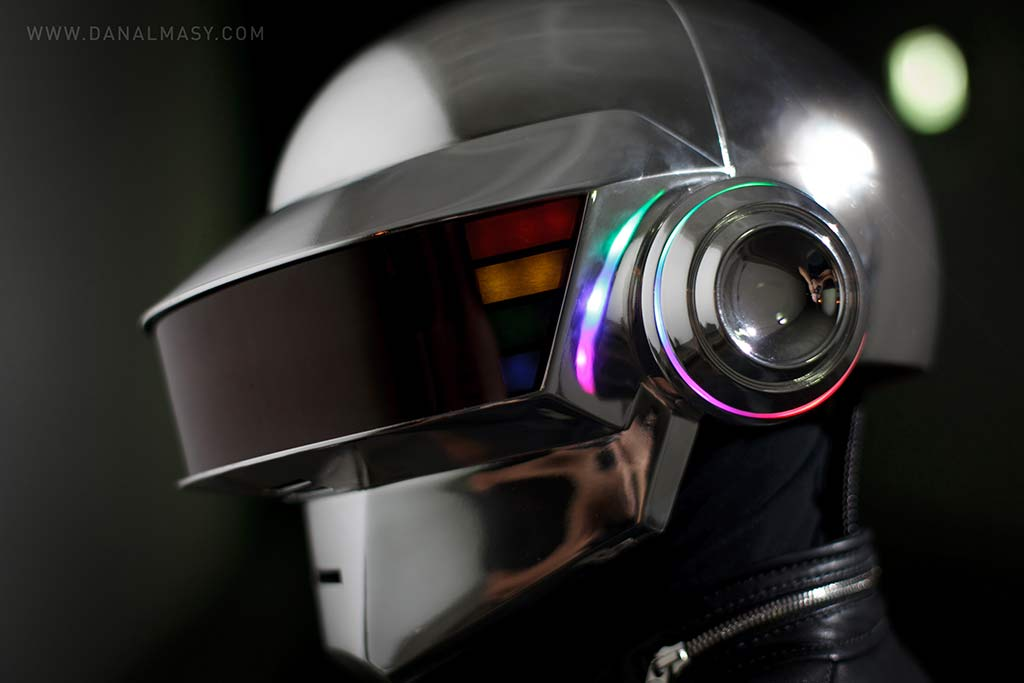
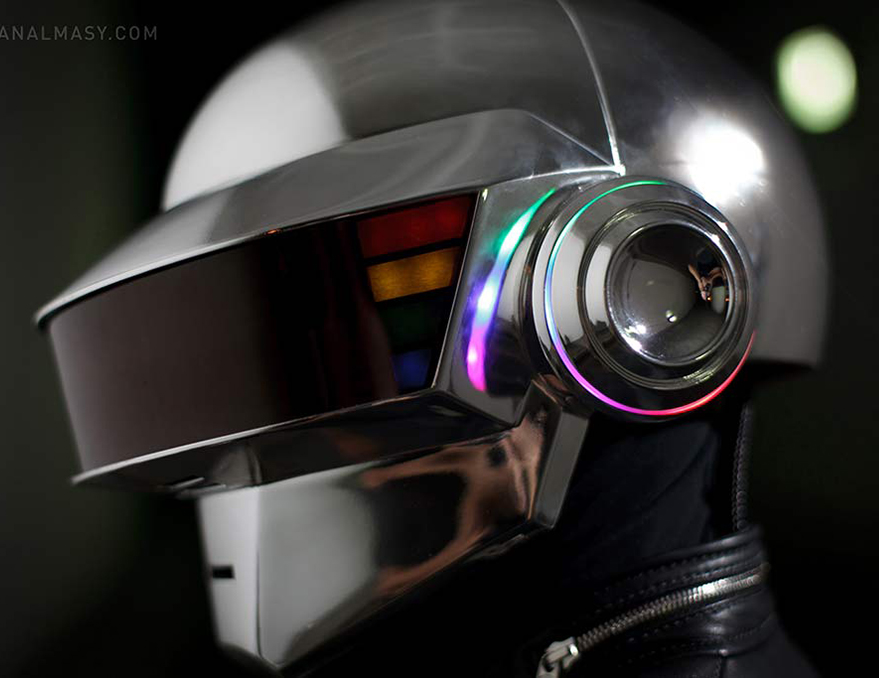
added thing to home page, deleted random file, changed aspect ratio of all images in hopes of fixing page look

diff --git a/client/views/home.html b/client/views/home.html
@@ -18,7 +18,8 @@ _________________________________________________________ -->
             <div class="cover-container">
                 <div class="cover-info">
                     <h1 class="cover-heading"><img src="../../resources/images/logo4.png"></h1>
-                    <p ng-hide="isLoggedIn()" class="lead">
+                    <p class="lead" style="color: #A5CD39">
+                        Quality Headgear, made just for you.
                     </p>
                 </div>
             </div>
